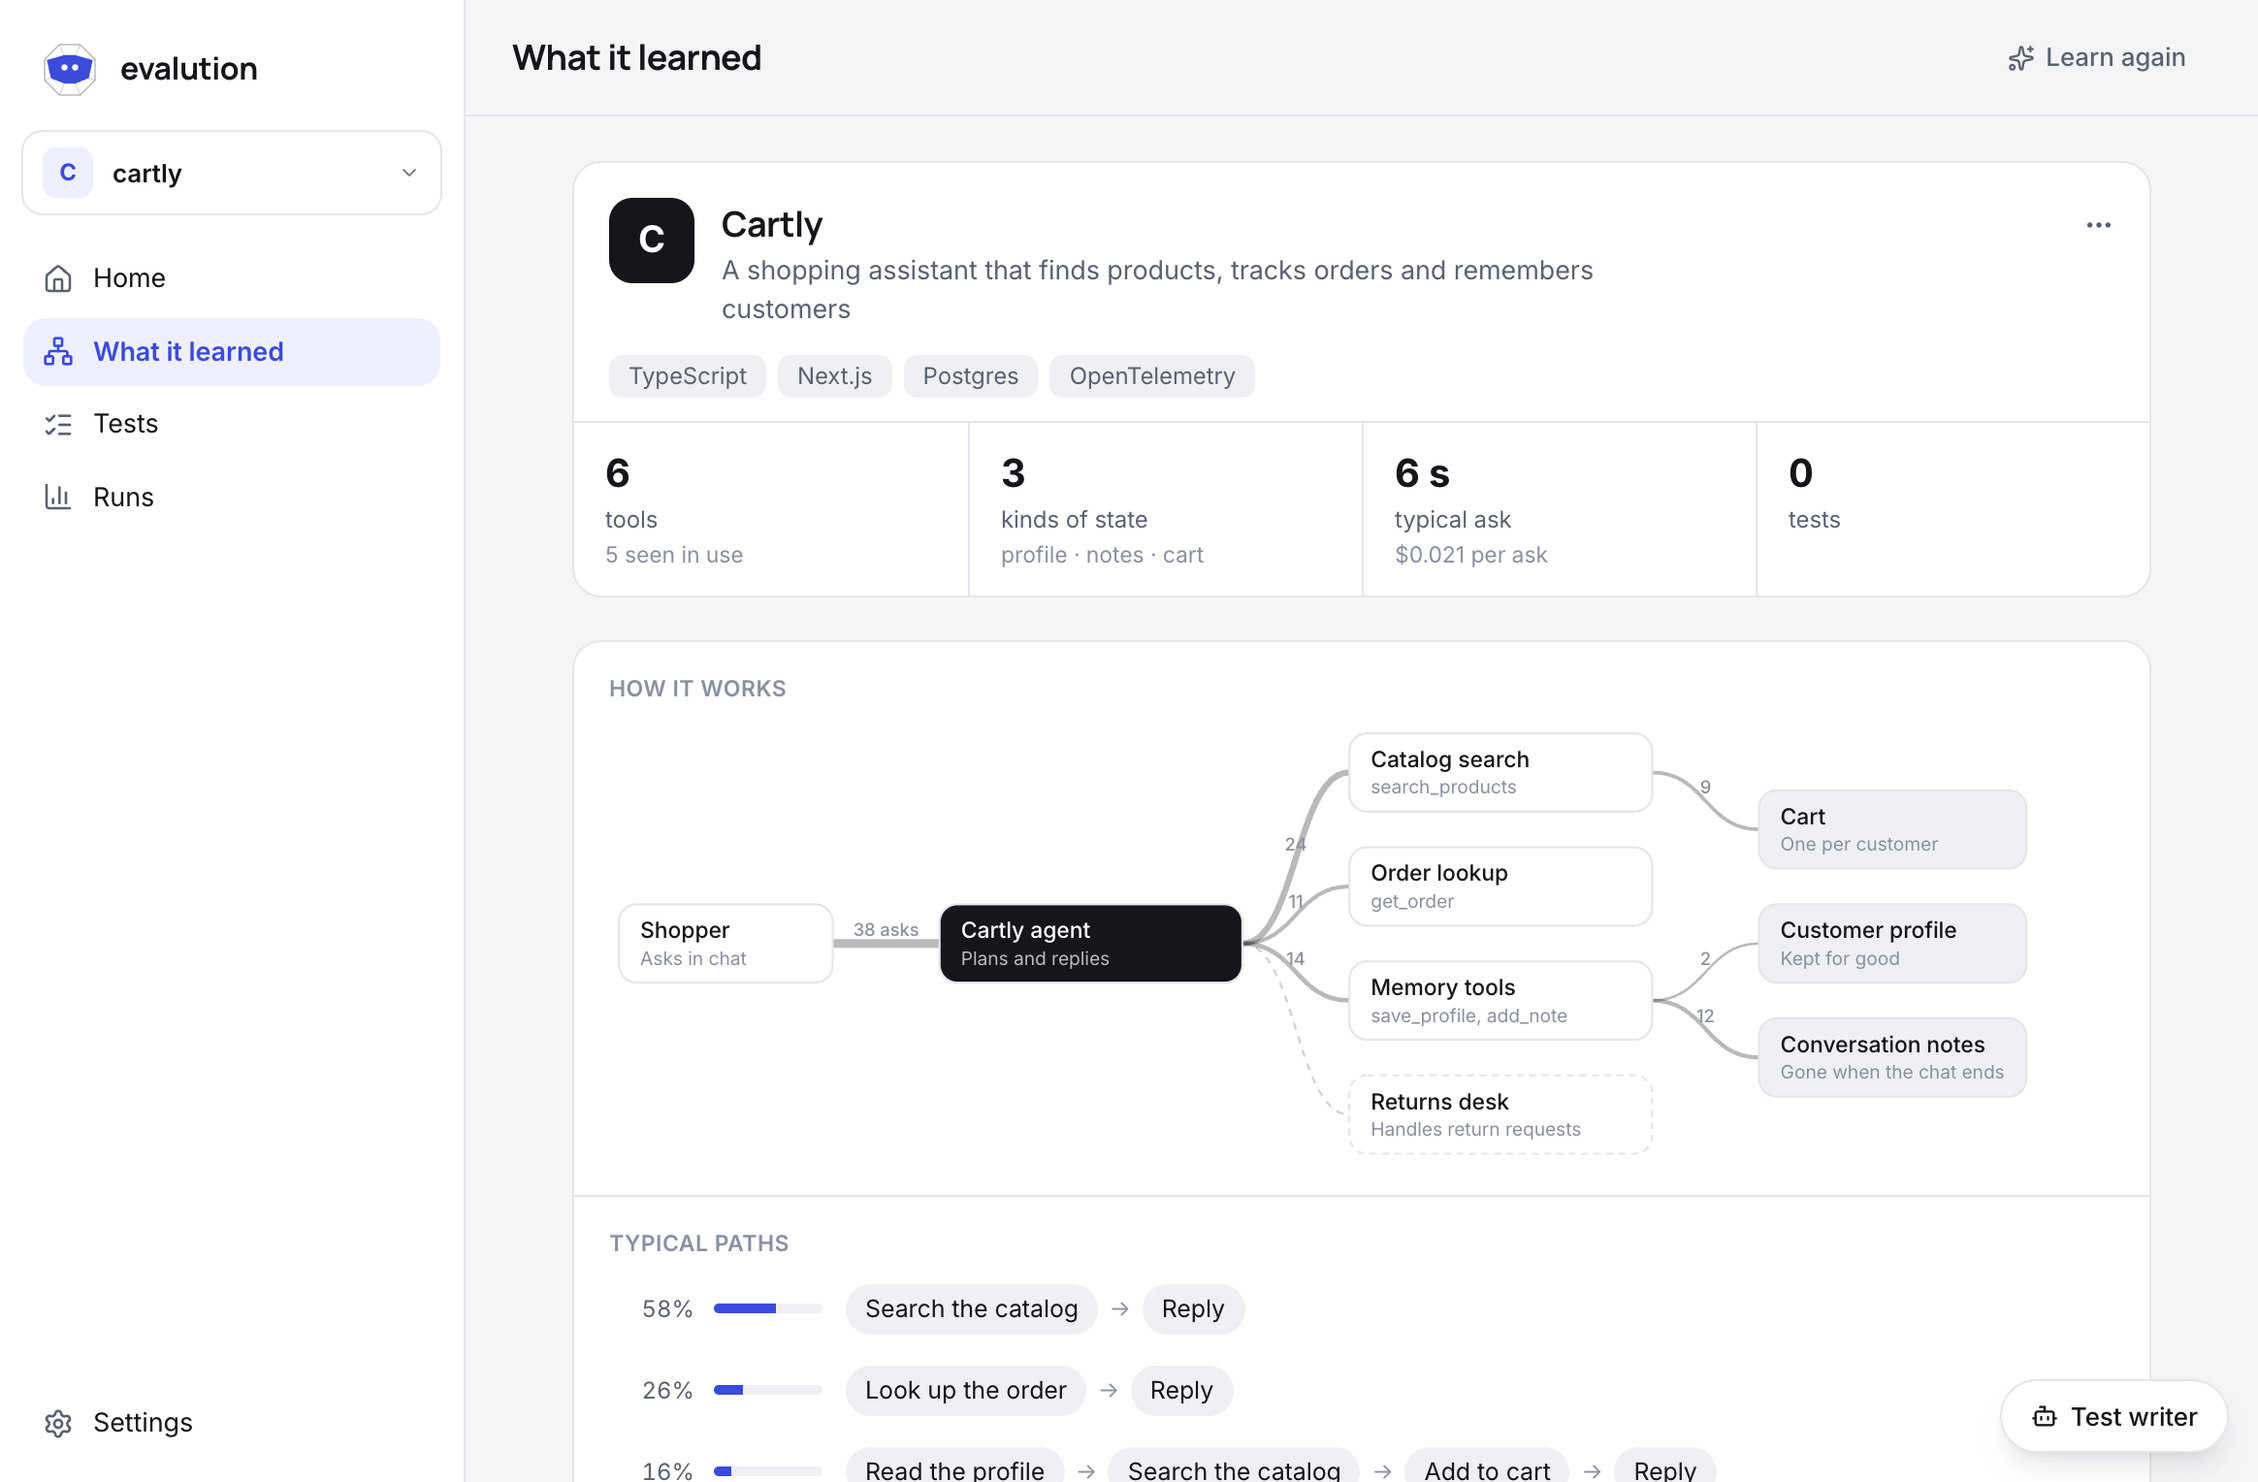
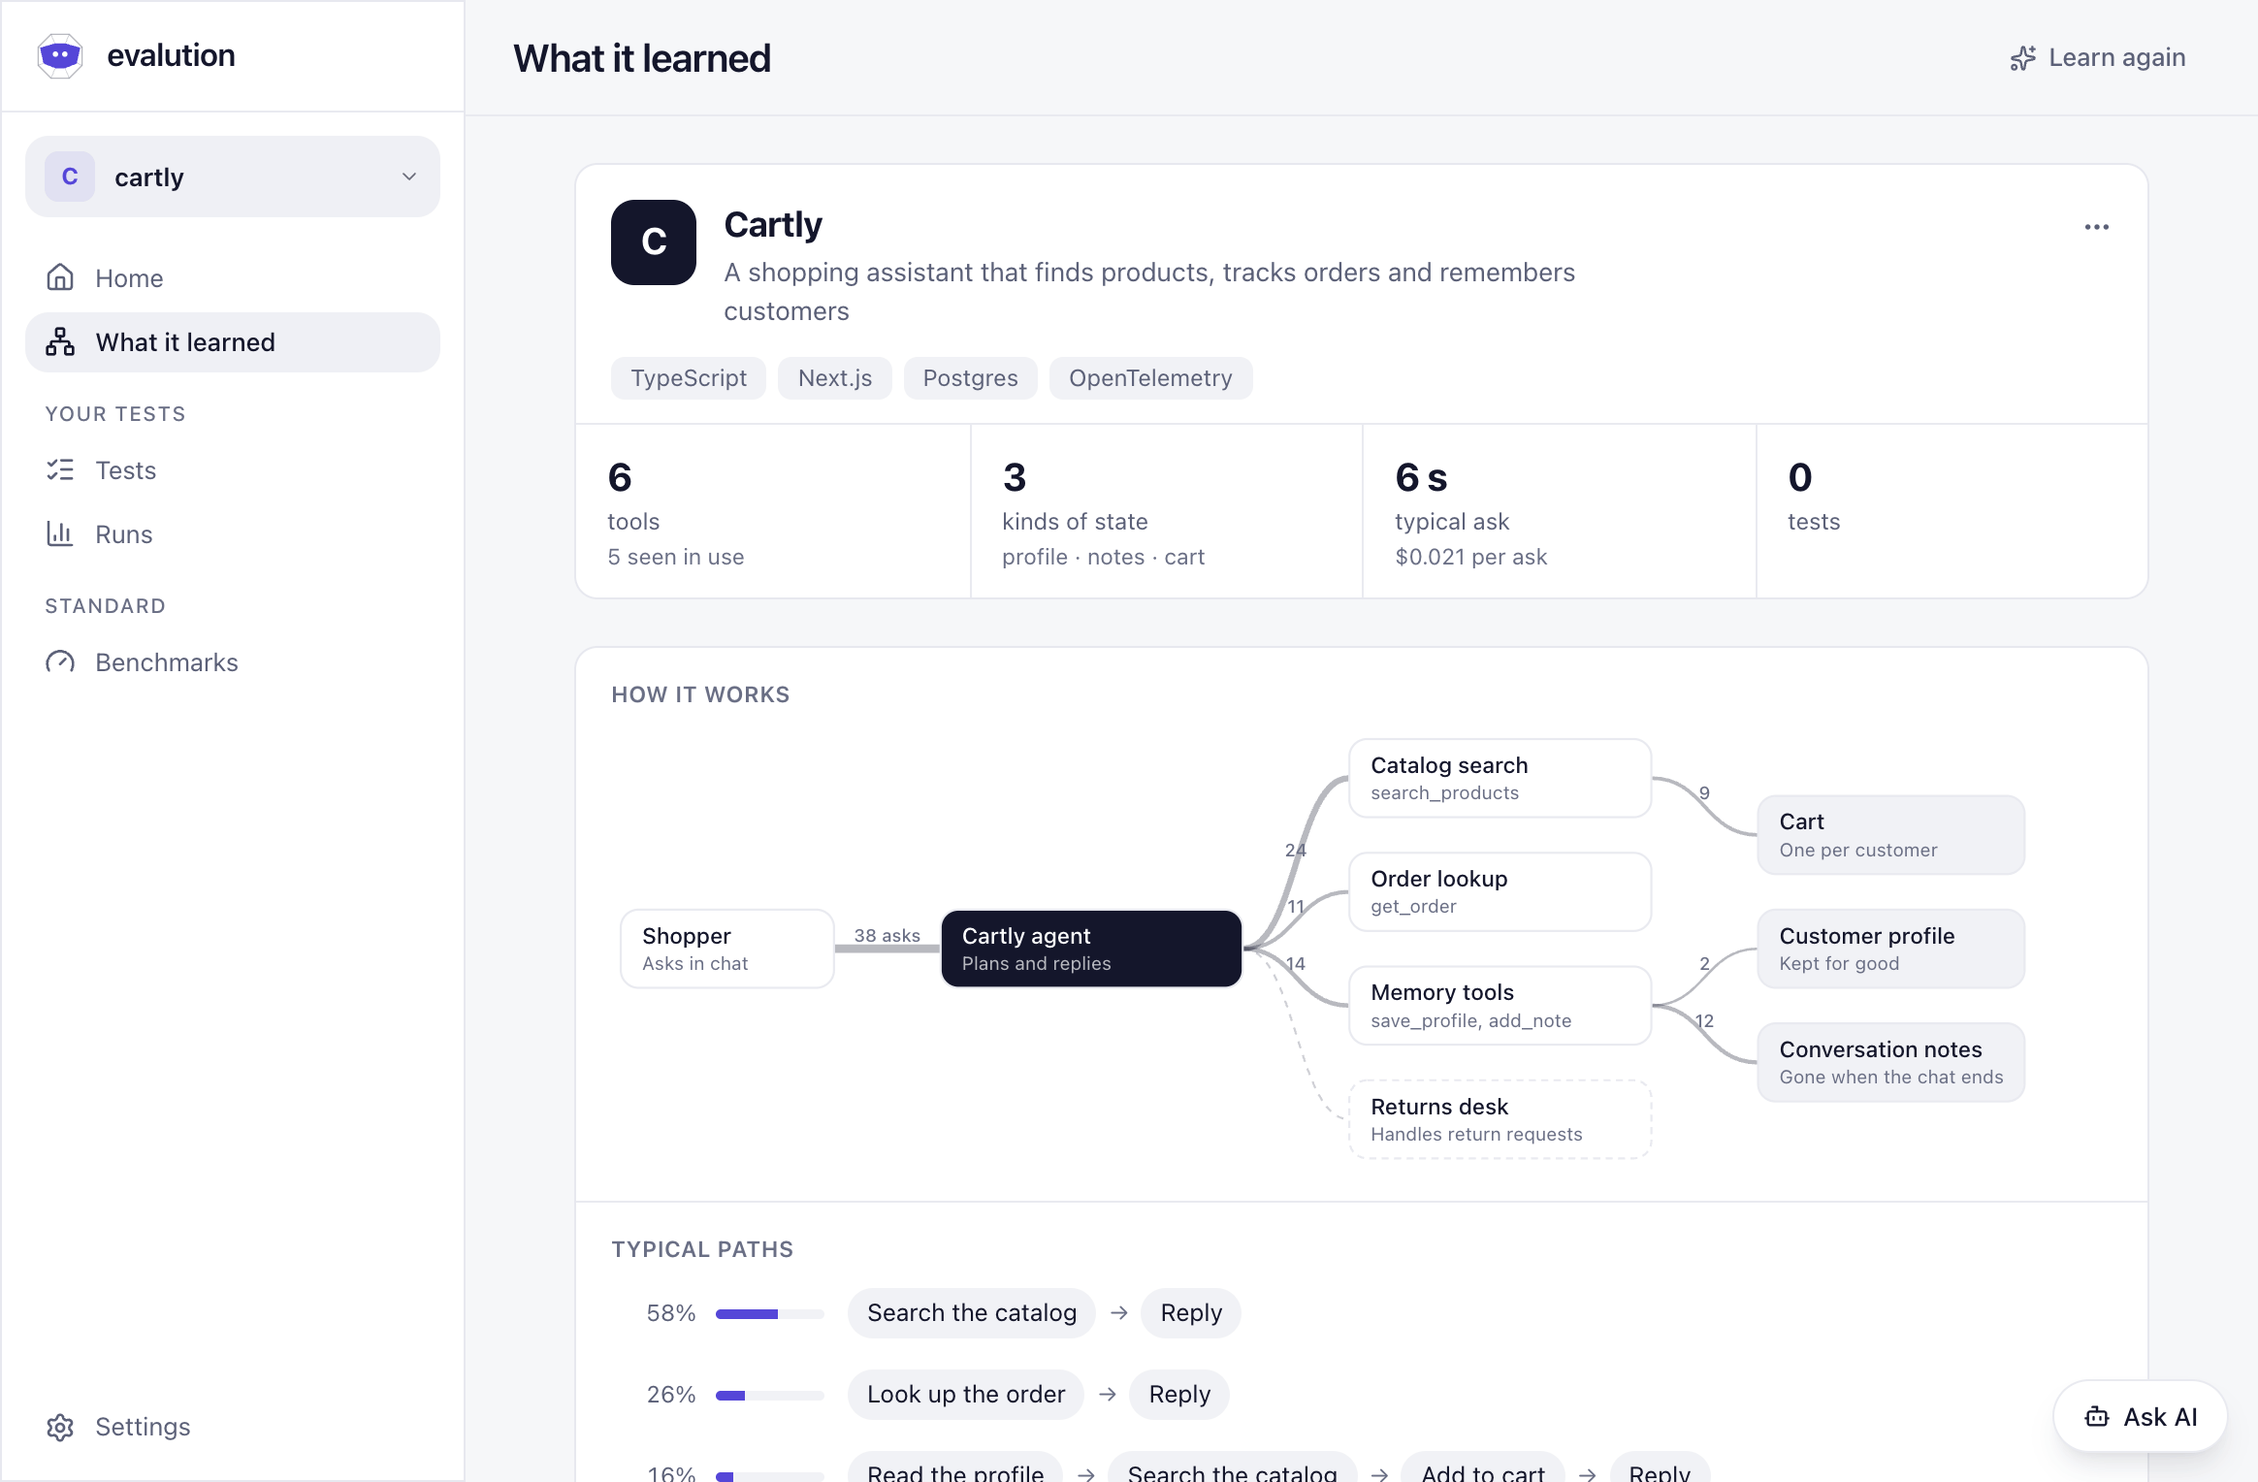
Benchmarks: a card for middle histories, and ask AI anything at any time
The middle size sat under Long histories, whose card promised about 270 messages. It gets its own
card and Run, always in one conversation. The box for questions about a run now looks like one, and
Ask AI can be opened before any chat exists. The README and its demo follow the new name and look.

diff --git a/web/src/features/benchmarks/BenchmarksView.tsx b/web/src/features/benchmarks/BenchmarksView.tsx
@@ -41,13 +41,19 @@ export function isBenchmark(set: string): boolean {
   return set.startsWith("longmemeval-");
 }
 
-/** The two datasets a person chooses between, each with its own runs. */
+/** The three datasets a person chooses between, each with its own runs. */
 const DATASETS = [
   {
     key: "short",
     label: "Short histories",
     about:
       "Does it save a fact and recall it later? About 11 messages a question, holding only what it needs to know.",
+  },
+  {
+    key: "middle",
+    label: "Middle histories",
+    about:
+      "Can it still answer once older chat is folded away? About 50 messages a question, in one conversation.",
   },
   {
     key: "long",
@@ -57,8 +63,11 @@ const DATASETS = [
   },
 ] as const;
 
-function datasetOf(set: string): "short" | "long" {
-  return /^longmemeval-(s|m|middle)(-|$)/.test(set) ? "long" : "short";
+type Dataset = (typeof DATASETS)[number]["key"];
+
+function datasetOf(set: string): Dataset {
+  if (set.startsWith("longmemeval-middle")) return "middle";
+  return /^longmemeval-(s|m)(-|$)/.test(set) ? "long" : "short";
 }
 
 const SHORT_CHARS = 110;
@@ -148,7 +157,7 @@ export function BenchmarksView({
   onRun: (set: string) => void;
   onTry: (set: string, run: string, id: string) => void;
 }) {
-  const [dataset, setDataset] = useState<"short" | "long" | null>(null);
+  const [dataset, setDataset] = useState<Dataset | null>(null);
   const [tab, setTab] = useState<Tab>("overview");
   const [state, reload] = useLoad(target, () => api.benchmarks(target));
   const data = state.status === "ready" ? state.data : null;
@@ -170,23 +179,26 @@ export function BenchmarksView({
     data.runs.find((entry) => entry.status === "running" || played(entry) > 0) ??
     data.runs[0] ??
     null;
-  const shownDataset = dataset ?? (run ? datasetOf(run.set) : going ? "long" : DATASETS[0].key);
+  const goingIn = data.runs.find((entry) => entry.status === "running");
+  const shownDataset =
+    dataset ?? (run ? datasetOf(run.set) : goingIn ? datasetOf(goingIn.set) : DATASETS[0].key);
   const inDataset = data.runs.filter((entry) => datasetOf(entry.set) === shownDataset);
   const active =
     inDataset.find((entry) => entry.run === selected) ??
     inDataset.find((entry) => entry.status === "running" || played(entry) > 0) ??
     null;
-  const runDataset = async (key: "short" | "long") => {
+  const runDataset = async (key: Dataset) => {
     setDataset(key);
     if (key === "long") {
       if (data.plan?.approved && data.plan.set) onRun(data.plan.set);
       else setTab("setup");
       return;
     }
-    const quick = data.sizes.find((entry) => entry.size === "quick");
-    if (!quick) return;
-    if (quick.questions === null) await api.installBenchmark(target, "quick");
-    onRun(quick.set);
+    const size = key === "middle" ? "middle" : "quick";
+    const entry = data.sizes.find((listed) => listed.size === size);
+    if (!entry) return;
+    if (entry.questions === null) await api.installBenchmark(target, size);
+    onRun(entry.set);
   };
   const listed = inDataset.filter((entry) => entry.status === "running" || played(entry) > 0);
   // With no run yet there's nothing to tab between: only the way to run it.
@@ -194,7 +206,7 @@ export function BenchmarksView({
   return (
     <Page wide>
       <h1 className="m-0 -mb-3 px-1 text-[22px] font-semibold tracking-[-0.02em]">Benchmarks</h1>
-      <div className="grid grid-cols-2 gap-3 max-sm:grid-cols-1">
+      <div className="grid grid-cols-3 gap-3 max-lg:grid-cols-1">
         {DATASETS.map((entry) => {
           const own = data.runs.filter((other) => datasetOf(other.set) === entry.key);
           const latest = own.find((other) => other.report.judged > 0);
@@ -297,7 +309,7 @@ export function BenchmarksView({
           onChanged={reload}
         />
       ) : null}
-      {shownTab === "setup" && shownDataset === "short" ? (
+      {shownTab === "setup" && shownDataset !== "long" ? (
         <p className="m-0 px-1 text-[13.5px] text-ink-2">Not run yet.</p>
       ) : null}
       {shownTab === "runs" && active ? (
@@ -537,23 +549,24 @@ function AskTraces({ run, onAsk }: { run: Run; onAsk: (text: string, run: string
         event.preventDefault();
         send(text);
       }}
-      className="group-card flex flex-wrap items-center gap-2 px-3 py-2"
+      className="group-card flex flex-col gap-2.5 p-3"
     >
-      <Sparkles className="size-4 shrink-0 text-tint" aria-hidden />
-      <input
-        id="ask-traces"
-        value={text}
-        onChange={(event) => setText(event.target.value)}
-        placeholder="Ask AI about this run's traces"
-        aria-label="Ask AI about this run's traces"
-        className="min-w-[12rem] flex-1 bg-transparent text-[13.5px] outline-none placeholder:text-ink-3"
-      />
-      {text.trim() ? (
-        <Button type="submit" size="sm">
+      <div className="flex items-center gap-2 rounded-lg border border-input bg-background px-2.5 py-1.5 focus-within:border-chart focus-within:ring-1 focus-within:ring-chart">
+        <Sparkles className="size-4 shrink-0 text-tint" aria-hidden />
+        <input
+          id="ask-traces"
+          value={text}
+          onChange={(event) => setText(event.target.value)}
+          placeholder="Ask anything about this run's traces"
+          aria-label="Ask anything about this run's traces"
+          className="min-w-0 flex-1 bg-transparent text-[13.5px] outline-none placeholder:text-ink-3"
+        />
+        <Button type="submit" size="sm" disabled={!text.trim()}>
           Ask
         </Button>
-      ) : (
-        ASK_STARTERS.map((starter) => (
+      </div>
+      <div className="flex flex-wrap gap-1.5">
+        {ASK_STARTERS.map((starter) => (
           <button
             key={starter}
             type="button"
@@ -562,8 +575,8 @@ function AskTraces({ run, onAsk }: { run: Run; onAsk: (text: string, run: string
           >
             {starter}
           </button>
-        ))
-      )}
+        ))}
+      </div>
     </form>
   );
 }

diff --git a/web/src/features/shell/App.tsx b/web/src/features/shell/App.tsx
@@ -150,7 +150,7 @@ export function App() {
           draft={writerDraft}
           onDrafted={clearDraft}
         />
-      ) : agent.session && scope ? (
+      ) : scope ? (
         <Button
           variant="secondary"
           className="fixed end-4 bottom-4 z-30 h-9 rounded-full bg-group px-3.5 shadow-lg ring-1 ring-separator"

diff --git a/server/evalution/suite/benchmarks.py b/server/evalution/suite/benchmarks.py
@@ -44,7 +44,7 @@ _BASE = "https://huggingface.co/datasets/xiaowu0162/longmemeval-cleaned/resolve/
 SIZES: dict[str, tuple[str, int | None]] = {
     "quick": ("longmemeval_oracle.json", 10),
     "oracle": ("longmemeval_oracle.json", None),
-    "middle": ("longmemeval_s_cleaned.json", None),
+    "middle": ("longmemeval_s_cleaned.json", 5),
     "s": ("longmemeval_s_cleaned.json", None),
     "m": ("longmemeval_m_cleaned.json", None),
 }
@@ -225,6 +225,11 @@ def size_of(size: str, each: int | None, data_dir: Path) -> tuple[int, int]:
     return len(chosen), sent
 
 
+def _slug(size: str, boundary: str = "break") -> str:
+    """The set a size is installed as: a middle history only means something in one conversation."""
+    return f"{NAME}-{size}" + ("-same" if boundary == "same" or size == "middle" else "")
+
+
 def install(
     size: str,
     target: str,
@@ -237,7 +242,8 @@ def install(
 ) -> tuple[str, int]:
     """Write the benchmark's *size* as a set of *target*, *plan* beside it if a plan chose it. Its
     name, which says how it plays, and how many questions it has."""
-    slug = f"{NAME}-{size}" + ("-same" if boundary == "same" else "")
+    boundary = "same" if size == "middle" else boundary
+    slug = _slug(size, boundary)
     folder = sets_dir / target / slug
     folder.mkdir(parents=True, exist_ok=True)
     for old in folder.glob("*.case.json"):
@@ -472,7 +478,7 @@ def overview(target: str, sets_dir: Path, runs: Iterable[Mapping[str, Any]]) -> 
     """The sizes that can be run on *target* and the runs it has had, newest first."""
     sizes = []
     for size in SIZES:
-        folder = sets_dir / target / f"{NAME}-{size}"
+        folder = sets_dir / target / _slug(size)
         sizes.append(
             {
                 "size": size,

diff --git a/README.md b/README.md
@@ -129,9 +129,9 @@ One sentence is enough. No datasets or scorers to wire up.
 
 ### 4. Approve the plan
 
-The test writer reads your code and traces, then proposes the test in plain steps. Nothing is added until you say so.
+Ask AI reads your code and traces, then proposes the test in plain steps. Nothing is added until you say so.
 
-<img src="docs/demo/steps/04-plan.png" alt="The test writer proposing a plan" width="100%">
+<img src="docs/demo/steps/04-plan.png" alt="Ask AI proposing a plan" width="100%">
 
 ### 5. Read the test before it runs
 
@@ -159,7 +159,7 @@ It spots what moved and which tests to run again, and you decide when.
 
 ### 9. Ask about it
 
-Ask a question in your own words, and the test writer answers from the run.
+Ask a question in your own words, and Ask AI answers from the run.
 
 <img src="docs/demo/steps/09-ask.png" alt="Asking about a run" width="100%">
 
@@ -169,7 +169,7 @@ Ask a question in your own words, and the test writer answers from the run.
 flowchart LR
     F[Your project folder] --> L[What it learned]
     T[Your traces] --> L
-    L --> W[Test writer proposes]
+    L --> W[Ask AI proposes]
     W -->|you approve| S[Tests]
     S -->|you press Run| P[Isolated tries]
     P --> A[Your agent]
@@ -212,7 +212,7 @@ A pass that rests only on a model reading the reply says so: **Passed, judged by
 
 ## Writing tests
 
-Usually you just describe it to the test writer. Tests are plain JSON in `sets/<app>/<set>/`, made for code review:
+Usually you just describe it to Ask AI. Tests are plain JSON in `sets/<app>/<set>/`, made for code review:
 
 ```json
 {
@@ -249,7 +249,7 @@ A conversation can be more than one message:
 
 Tool order can be `exact`, `in_order` or `any_order`; expected tools can check arguments, counts and parallel calls. Tools in `never` always count against a try, while `expected` is a guide unless the test sets `strict`, asks for `exact` order, disallows extras, or has no reply to judge.
 
-**The stateful library** in `library/stateful/` holds ready-made tests, which the test writer adapts to your app: fact recall, corrections, withdrawn instructions, forgetting on request, compaction keeping an early decision, compaction dropping a withdrawn fact, recall from the right conversation, preferences and tasks across conversations, and long chats keeping a name and role.
+**The stateful library** in `library/stateful/` holds ready-made tests, which Ask AI adapts to your app: fact recall, corrections, withdrawn instructions, forgetting on request, compaction keeping an early decision, compaction dropping a withdrawn fact, recall from the right conversation, preferences and tasks across conversations, and long chats keeping a name and role.
 
 ## When your code changes
 
@@ -261,7 +261,7 @@ When code differs from what was last tested and the app's updates are set to *Au
 > 2 areas have no test: conversation compaction, context checkpoint
 
 - **Affected tests** get a *Run them* button. Nothing runs by itself.
-- **Areas with no test** link to the test writer, with the ask ready for you to send.
+- **Areas with no test** link to Ask AI, with the ask ready for you to send.
 - **Regressions** name the commits: *"Memory recall passed on abc1234, fails on def5678"*.
 - **A change that can't affect behaviour** shows no card, but it isn't forgotten: it's read again with the next change until a run covers it.
 - **Set to *When I ask*** (the default), the card shows the changed files and all the tests, with no model call, and *Read this change* asks for the reading, with its rough cost on the button.
@@ -349,11 +349,11 @@ Both the OpenInference and OpenTelemetry GenAI conventions are understood, and p
 
 ## Cost and privacy
 
-**Cost.** Every try is a full chat, paid for by you. You see an estimate before each run, based on that test's own recent tries. A test that has never run gets a rough guess, marked as one. Nothing stops a run partway because of cost, so try an expensive-looking test with one try first. The test writer has its own budget per session, shown in its panel.
+**Cost.** Every try is a full chat, paid for by you. You see an estimate before each run, based on that test's own recent tries. A test that has never run gets a rough guess, marked as one. Nothing stops a run partway because of cost, so try an expensive-looking test with one try first. Ask AI has its own budget per session, shown in its panel.
 
 **What stays local.** Results, tests and settings all live on your machine. There's no hosted service and no login. Each run also keeps what it saw in `data/runs/<run>.evidence.jsonl.gz`: prompts your app sent, tool arguments and outputs, in full up to 64 KB an item. That file is owner-only and git-ignored, and sits beside the run until you delete it.
 
-**What goes to your model.** The model you configure sees code the test writer reads, diffs of changes, traces and replies. Secret files are never read, but they're recognised by file name: a key pasted into a normal source file could be sent in a diff.
+**What goes to your model.** The model you configure sees code Ask AI reads, diffs of changes, traces and replies. Secret files are never read, but they're recognised by file name: a key pasted into a normal source file could be sent in a diff.
 
 **Secrets.** They stay in `data/secrets.json` (owner-only), or in environment variables you name. They are never returned by the API, logged or sent to the model.
 
